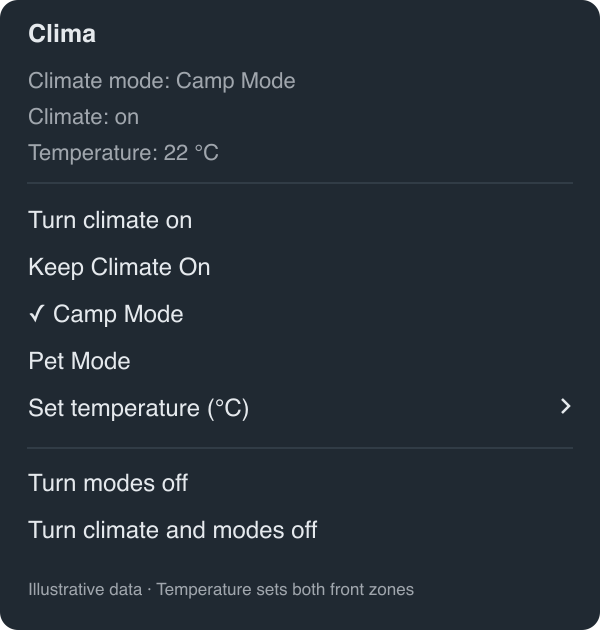
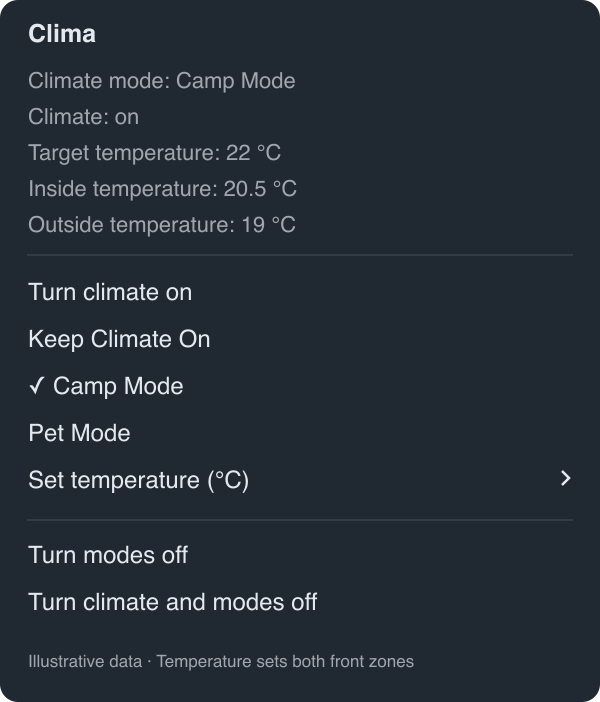
Show measured inside and outside temperatures in Clima

diff --git a/tests/test_clima.py b/tests/test_clima.py
@@ -41,6 +41,7 @@ class ClimateClient(CommandClient):
         if "vehicle_data?" in path:
             climate = {"climate_keeper_mode": self.mode, "is_climate_on": self.power,
                        "driver_temp_setting": self.temperature, "passenger_temp_setting": self.temperature,
+                       "inside_temp": 20.5, "outside_temp": -3.5,
                        "timestamp": (self.timestamp if self.timestamp is not None else time.time()) * 1000}
             if self.limits is not None:
                 climate.update(min_avail_temp=self.limits[0], max_avail_temp=self.limits[1])
@@ -90,6 +91,23 @@ class ClimaTests(unittest.TestCase):
         self.assertEqual((climate["driver_temp_setting"], climate["passenger_temp_setting"]), (22.5, 22.5))
         self.assertFalse(client.power)
         self.assertIn("22.5 °C • confirmed", app.read_json("command-result.json")["message"])
+
+    def test_inside_outside_and_target_readings_are_distinct_and_keep_stale_labels(self):
+        client = ClimateClient()
+        cache = app.fetch_state(self.config, client)
+        self.assertEqual(cache["climate"]["inside_temp"], 20.5)
+        self.assertEqual(cache["climate"]["outside_temp"], -3.5)
+        menu = app.render(cache, self.config)
+        for line in ("--Inside temperature: 20.5 °C", "--Outside temperature: -3.5 °C", "--Target temperature: 21 °C"):
+            self.assertIn(line, menu)
+        for changes in ({"state": "offline"}, {"state": "asleep"}, {"error": "Network unavailable"}):
+            menu = app.render(cache | changes, self.config)
+            self.assertIn("--Last known inside temperature: 20.5 °C", menu)
+            self.assertIn("--Last known outside temperature: -3.5 °C", menu)
+        cache["climate"].update(inside_temp=0, outside_temp=None)
+        menu = app.render(cache, self.config)
+        self.assertIn("--Inside temperature: 0 °C", menu)
+        self.assertIn("--Outside temperature: unavailable", menu)
 
     def test_invalid_temperatures_are_rejected_before_any_vehicle_access(self):
         for value in (None, True, "nan", "inf", "-inf", "1e308", "22;anything", "22.25"):

diff --git a/src/tesla_xbar.py b/src/tesla_xbar.py
@@ -386,7 +386,8 @@ def fetch_state(config, client=None):
             cache["updated_at"] = min(now, timestamp / 1000) if number(timestamp) and timestamp > 0 else now
             for source, destination, fields in (
                 ("climate_state", "climate", ("climate_keeper_mode", "is_climate_on", "driver_temp_setting",
-                                              "passenger_temp_setting", "min_avail_temp", "max_avail_temp")),
+                                              "passenger_temp_setting", "min_avail_temp", "max_avail_temp",
+                                              "inside_temp", "outside_temp")),
                 ("vehicle_state", "vehicle_status", ("locked",)),
             ):
                 data = response.get(source)
@@ -699,10 +700,17 @@ def clima_menu(cache, vehicle_action):
         if "climate" in line.lower():
             lines.append("--" + line + " | color=gray")
     driver, passenger = climate.get("driver_temp_setting"), climate.get("passenger_temp_setting")
-    label = "Temperature" if current else "Last known temperature"
+    label = "Target temperature" if current else "Last known target temperature"
     if number(driver) and number(passenger):
         value = f"{driver:g} °C" if driver == passenger else f"driver {driver:g} °C / passenger {passenger:g} °C"
         lines.append(f"--{label}: {value} | color=gray")
+    for field, label in (("inside_temp", "Inside temperature"), ("outside_temp", "Outside temperature")):
+        value = climate.get(field)
+        if number(value):
+            label = label if current else "Last known " + label.lower()
+            lines.append(f"--{label}: {value:g} °C | color=gray")
+        else:
+            lines.append(f"--{label}: unavailable | color=gray")
     lines.append("-----")
     for command in ("climate-on", "climate-keep", "climate-camp", "climate-pet"):
         expected = CLIMATE_MODES.get(command, ("off",))[0]

diff --git a/scripts/render_previews.py b/scripts/render_previews.py
@@ -69,18 +69,19 @@ for i, (label, value, color, icon) in enumerate(examples):
     if icon == 'bolt':
         body += bolt(x+20, y+82, 1.8)
 (OUT / 'states.svg').write_text(svg(1326, 380, body))
-body = '<rect width="600" height="630" rx="18" fill="#202932"/>'
+body = '<rect width="600" height="702" rx="18" fill="#202932"/>'
 body += text(28, 42, 'Clima', 25, weight=600)
-for y, label in [(88, 'Climate mode: Camp Mode'), (124, 'Climate: on'), (160, 'Temperature: 22 °C')]:
+for y, label in [(88, 'Climate mode: Camp Mode'), (124, 'Climate: on'), (160, 'Target temperature: 22 °C'),
+                 (196, 'Inside temperature: 20.5 °C'), (232, 'Outside temperature: 19 °C')]:
     body += text(28, y, label, 22, '#a0a6ad')
-body += divider(183)
-for y, label in [(228, 'Turn climate on'), (275, 'Keep Climate On'), (322, '✓ Camp Mode'),
-                 (369, 'Pet Mode'), (416, 'Set temperature (°C)')]:
+body += divider(255)
+for y, label in [(300, 'Turn climate on'), (347, 'Keep Climate On'), (394, '✓ Camp Mode'),
+                 (441, 'Pet Mode'), (488, 'Set temperature (°C)')]:
     body += text(28, y, label, 24)
-body += '<path d="m562 399 7 7-7 7" fill="none" stroke="#e5e9ed" stroke-width="2.5"/>'
-body += divider(448)
-body += text(28, 491, 'Turn modes off', 24)
-body += text(28, 538, 'Turn climate and modes off', 24)
-body += text(28, 595, 'Illustrative data · Temperature sets both front zones', 17, '#a0a6ad')
-(OUT / 'clima.svg').write_text(svg(600, 630, body))
+body += '<path d="m562 471 7 7-7 7" fill="none" stroke="#e5e9ed" stroke-width="2.5"/>'
+body += divider(520)
+body += text(28, 563, 'Turn modes off', 24)
+body += text(28, 610, 'Turn climate and modes off', 24)
+body += text(28, 667, 'Illustrative data · Temperature sets both front zones', 17, '#a0a6ad')
+(OUT / 'clima.svg').write_text(svg(600, 702, body))
 print('Created four SVG previews using fictional data only.')

diff --git a/tests/test_status_icons.py b/tests/test_status_icons.py
@@ -44,14 +44,14 @@ class StatusIconTests(unittest.TestCase):
     def test_status_fields_share_battery_request_and_filter_private_response(self):
         client = StatusClient({
             "climate_state": {"climate_keeper_mode": "camp", "is_climate_on": True,
-                              "timestamp": (self.now - 5) * 1000, "inside_temp": 22},
+                              "timestamp": (self.now - 5) * 1000, "fan_speed": 3},
             "vehicle_state": {"locked": False, "timestamp": (self.now - 10) * 1000,
                               "odometer": 1000, "vehicle_name": "Private name"}})
         cache = app.fetch_state(self.config, client=client)
         self.assertEqual(len(client.calls), 2)
         self.assertEqual(cache["climate"], {"climate_keeper_mode": "camp", "is_climate_on": True, "updated_at": self.now - 5})
         self.assertEqual(cache["vehicle_status"], {"locked": False, "updated_at": self.now - 10})
-        for excluded in ("inside_temp", "odometer", "vehicle_name", "latitude"):
+        for excluded in ("fan_speed", "odometer", "vehicle_name", "latitude"):
             self.assertNotIn(excluded, json.dumps(cache))
         self.assertEqual(app.active_status_icons(cache), ["charging", "camp", "fan", "unlocked"])
 

diff --git a/README.md b/README.md
@@ -20,7 +20,7 @@ Open the menu to see battery percentage, Tesla's range, charge limit, cable conn
 
 <img src="docs/images/status-icons.png" alt="Matching monochrome charging bolt, Camp Mode tent, Pet Mode paw, climate fan and unlocked padlock before the range" width="940">
 
-Open **Clima** to change climate modes, turn climate on or off, or set the temperature for both front zones.
+Open **Clima** to see inside and outside temperatures, change climate modes, turn climate on or off, or set the target temperature for both front zones. Measured temperatures are shown separately from **Target temperature**.
 
 <img src="docs/images/clima.png" alt="Clima submenu with Keep, Camp and Pet modes, temperature selection and full shutdown" width="420">
 
@@ -66,7 +66,7 @@ flowchart TD
 
 A normal refresh checks vehicle availability and reads live data when available; otherwise it retains the last known reading. Wake is a separate, explicit action. The Python application sends ordinary API requests itself and delegates commands requiring signatures to the Go helper.
 
-The same `vehicle_data` request includes `charge_state`, `gui_settings`, `climate_state` and `vehicle_state`. Climate and lock indicators require no additional API calls or permissions beyond the existing vehicle-data access. Saved climate fields are limited to the keeper mode, on/off state, both front temperature settings and the vehicle's available temperature limits; the saved lock field is `locked`. Each section keeps its own reading timestamp. Clima actions use the existing `vehicle_cmds` scope and paired signing key, where required. See [Tesla's documented commands](https://developer.tesla.com/docs/fleet-api/endpoints/vehicle-commands).
+The same `vehicle_data` request includes `charge_state`, `gui_settings`, `climate_state` and `vehicle_state`. Climate and lock indicators require no additional API calls or permissions beyond the existing vehicle-data access. Saved climate fields are limited to the keeper mode, on/off state, inside/outside temperatures, both front temperature settings and the vehicle's available temperature limits; the saved lock field is `locked`. Each section keeps its own reading timestamp. Clima actions use the existing `vehicle_cmds` scope and paired signing key, where required. See [Tesla's documented commands](https://developer.tesla.com/docs/fleet-api/endpoints/vehicle-commands).
 
 Browser sign-in starts a temporary HTTP listener on the Mac's loopback interface, using the configured callback port. It closes when sign-in completes or times out. Later refreshes renew tokens as needed without opening a browser. The public HTTPS site serves only the **public key**: it does not relay the callback, run the plugin or store credentials.
 

diff --git a/docs/SETUP.md b/docs/SETUP.md
@@ -86,6 +86,10 @@ the vehicle, and sets both front zones in 0.5 °C steps. If limits are missing,
 refresh while the vehicle is online. Setting a temperature alone does not turn
 climate on. A clicked command can wake the vehicle; routine refresh cannot.
 
+**Inside temperature** and **Outside temperature** show Tesla's measured readings,
+separately from **Target temperature**. Unavailable readings are labeled as such;
+saved readings from an offline/asleep vehicle or a failed refresh use **Last known**.
+
 When upgrading from a version without Clima controls, use the full installer
 (`python3 -m scripts.install`) to rebuild the command helper with its mode adapter.
 
